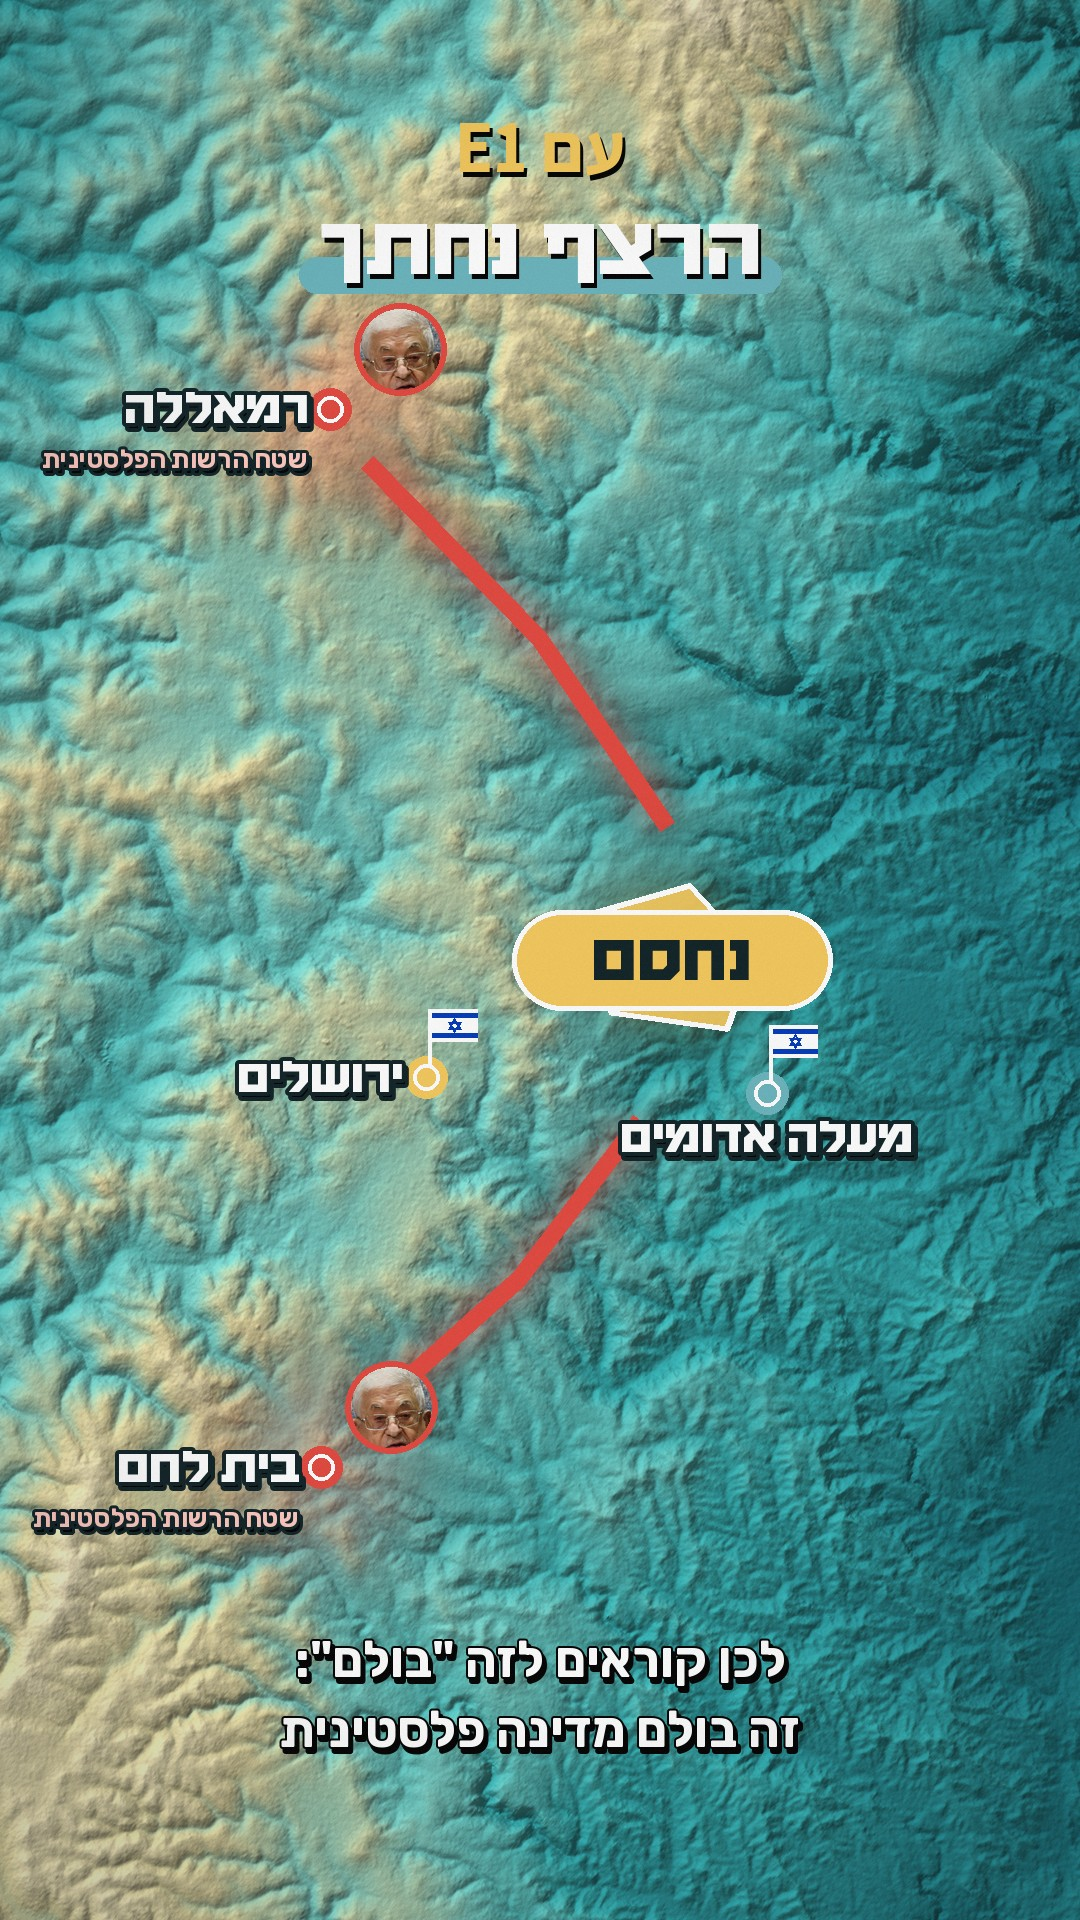
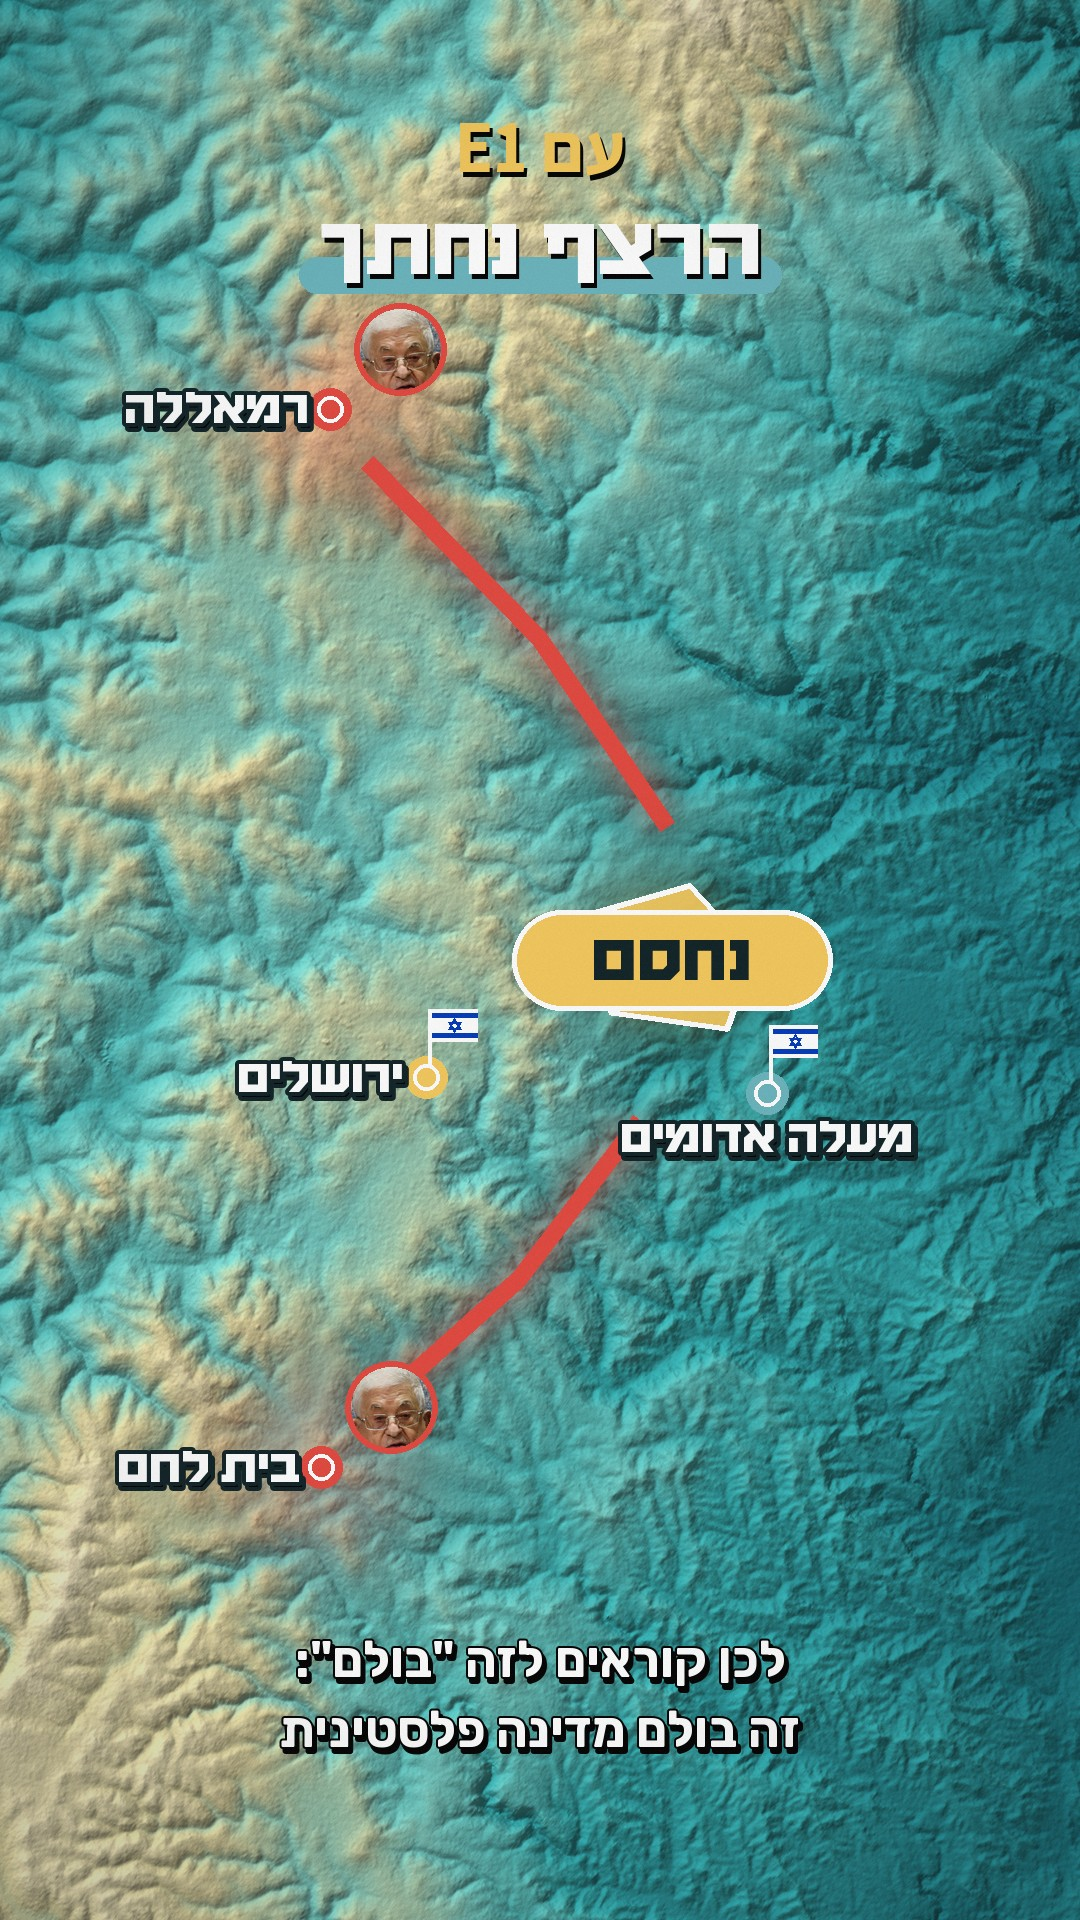
E1 explainer: remove PA-area label
Claude-Session: https://claude.ai/code/session_01RS3QK6pAd3YhyAuXZSJjH1

Changed region(s): [[0.0306, 0.2188, 0.3056, 0.25], [0.0306, 0.7812, 0.275, 0.8125]]

diff --git a/content-kit/hatzionut-hadatit/2026-11-reel-e1-explainer/sample4.py b/content-kit/hatzionut-hadatit/2026-11-reel-e1-explainer/sample4.py
@@ -60,8 +60,6 @@ def places(d, v):
         x, y = pin(d, v, *PL[n], c, 13); label(d, v, *PL[n], n, s_, 46, dot=False)
         if c == RED: abbas_badge(d, x, y)
         else: flag(d, x + 4, y - 12, .8)
-    for n in ('רמאללה', 'בית לחם'):
-        x, y = v.xy(*PL[n]); T(d, (x - 24, y + 50), 'שטח הרשות הפלסטינית', F(RUB, 26), fill=(255, 200, 190), anchor='rm', stroke_width=3, stroke_fill=NIGHT)
 places(d, v); headline(d, [('בלי E1', RED), ('רצף פלסטיני', WHITE)], 150, 84)
 lower(d, 'רצף מרמאללה עד בית לחם:\nבדיוק מה שמדינה פלסטינית צריכה'); OUT.append(('04', finish2(im)))
 # 5 vivid
